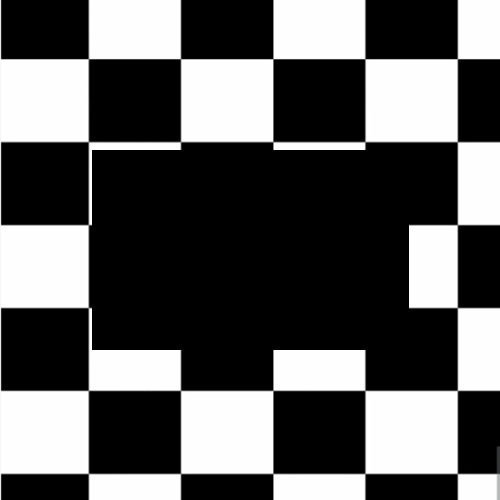
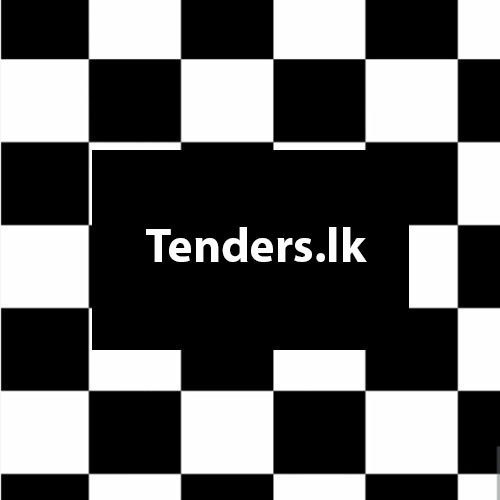
commit changes

Changed region(s): [[0.27, 0.45, 0.75, 0.54]]

diff --git a/index.html b/index.html
@@ -303,7 +303,7 @@
                             <div class="work__link-wrapp">
                                 <a href="https://tenders.lk/" target="_blank" class="work__link-elem displacement" data-title="Sun Glasses"
                                    data-img="sun-glasses/glasses-f.jpg">
-                                    <img src="img/work/03/0112411-modified.PNG" alt="workc">
+                                    <img src="img/work/09/011254-modified.jpg" alt="workc">
                                     <img src="img/work/08/0112412-modified.PNG" alt="workb">
                                 </a>
                                 <h3 class="work__name">
